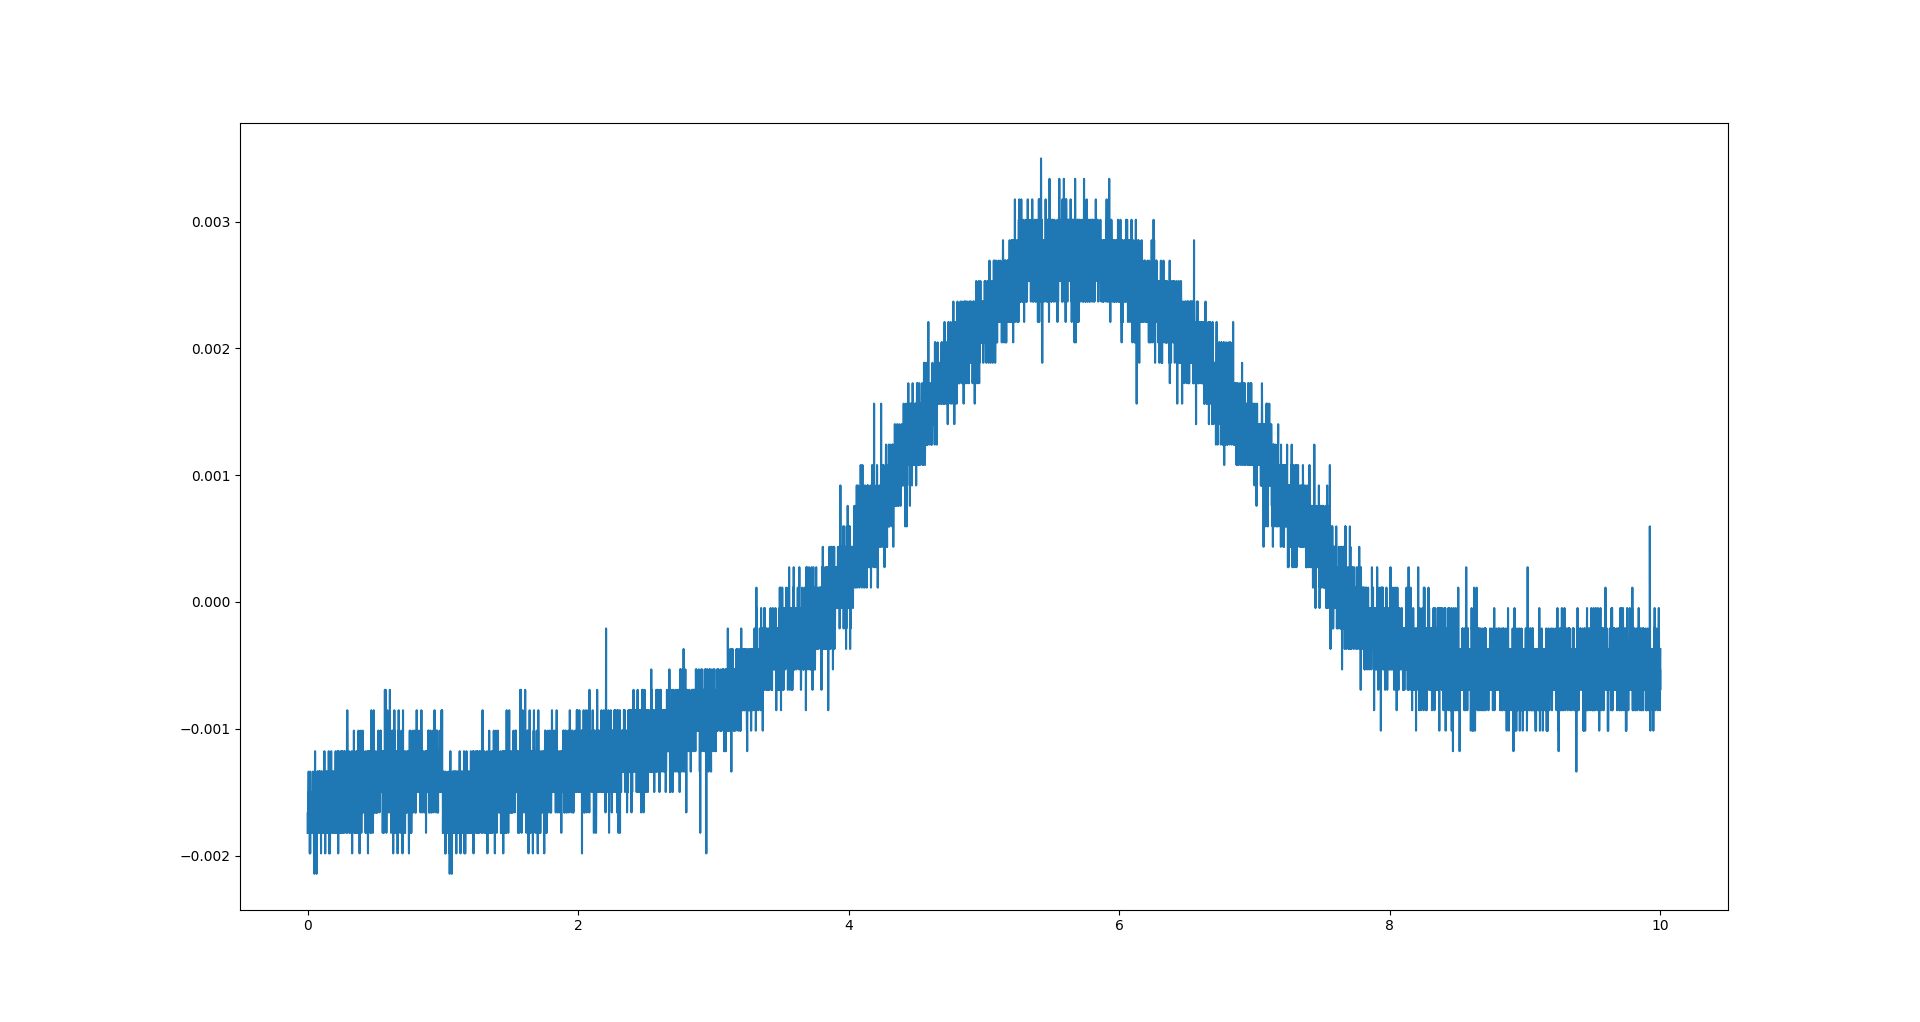
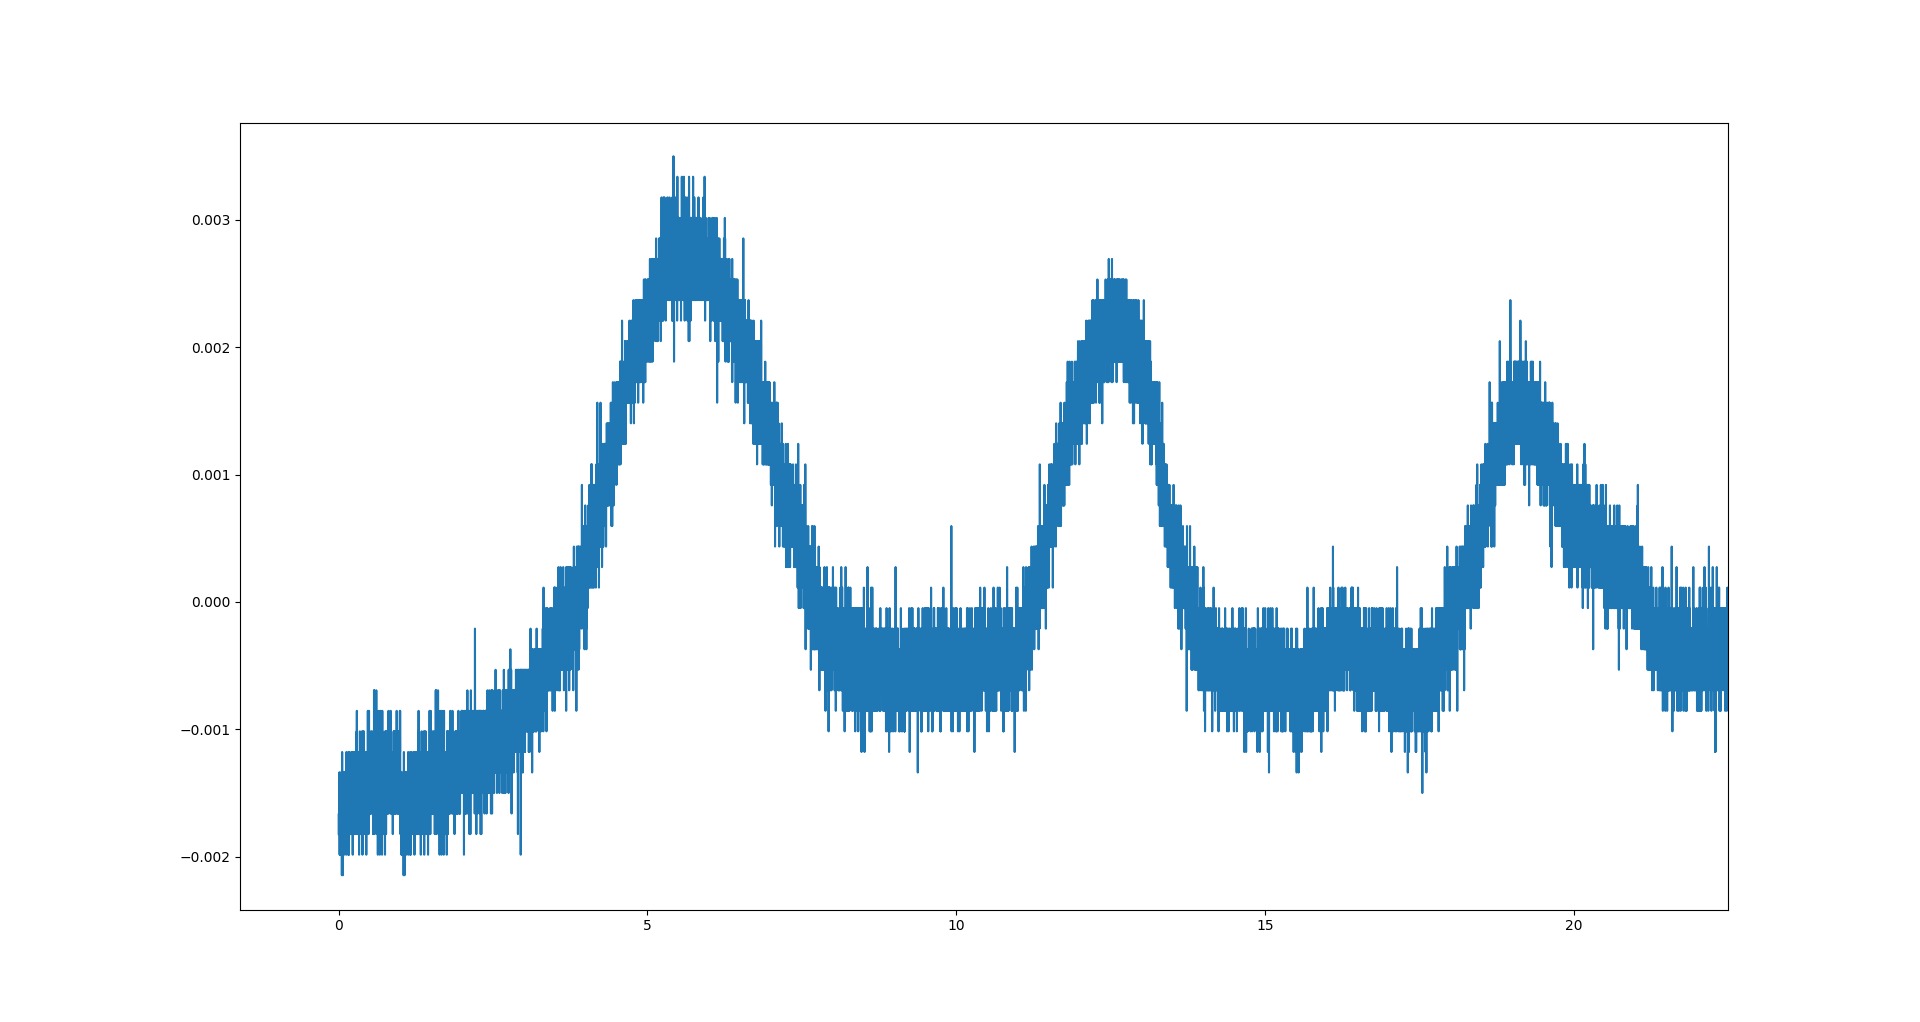
Added more untrackec files, prob2a-2 2b-2 scope revised

diff --git a/2-a-2.py b/2-a-2.py
@@ -57,7 +57,7 @@ average_amplitude = total_amplitude/total_round
 final_data = final_data.astype(float)
 print("Avreage amplitude : ",average_amplitude)
 print("Total video watching time is ",end_time-start_time,"  len of final data is  ",len(final_data)) #will be 375000
-time_axis = np.arange(0,10,0.001,float) #from 0 to 10 seconds, the difference between each is 0.001 (as sampling freq = 1000 Hz)
+time_axis = np.arange(0,100,0.001,float) #from 0 to 10 seconds, the difference between each is 0.001 (as sampling freq = 1000 Hz)
 #plot as the floating type
-plt.plot(time_axis,final_data[0:10000])#since we sample from 0 to 10 with precision 0.001(1000hz)
+plt.plot(time_axis,final_data[0:100000])#since we sample from 0 to 10 with precision 0.001(1000hz)
 plt.show()

diff --git a/2-b-2.py b/2-b-2.py
@@ -57,7 +57,7 @@ average_amplitude = total_amplitude/total_round
 final_data = final_data.astype(float)
 print("Avreage amplitude : ",average_amplitude)
 print("Total video watching time is ",end_time-start_time,"  len of final data is  ",len(final_data)) #will be 375000
-time_axis = np.arange(0,10,0.001,float) #from 0 to 10 seconds, the difference between each is 0.001 (as sampling freq = 1000 Hz)
+time_axis = np.arange(0,100,0.001,float) #from 0 to 10 seconds, the difference between each is 0.001 (as sampling freq = 1000 Hz)
 #plot as the floating type
-plt.plot(time_axis,final_data[0:10000])#since we sample from 0 to 10 with precision 0.001(1000hz)
+plt.plot(time_axis,final_data[0:100000])#since we sample from 0 to 10 with precision 0.001(1000hz)
 plt.show()
